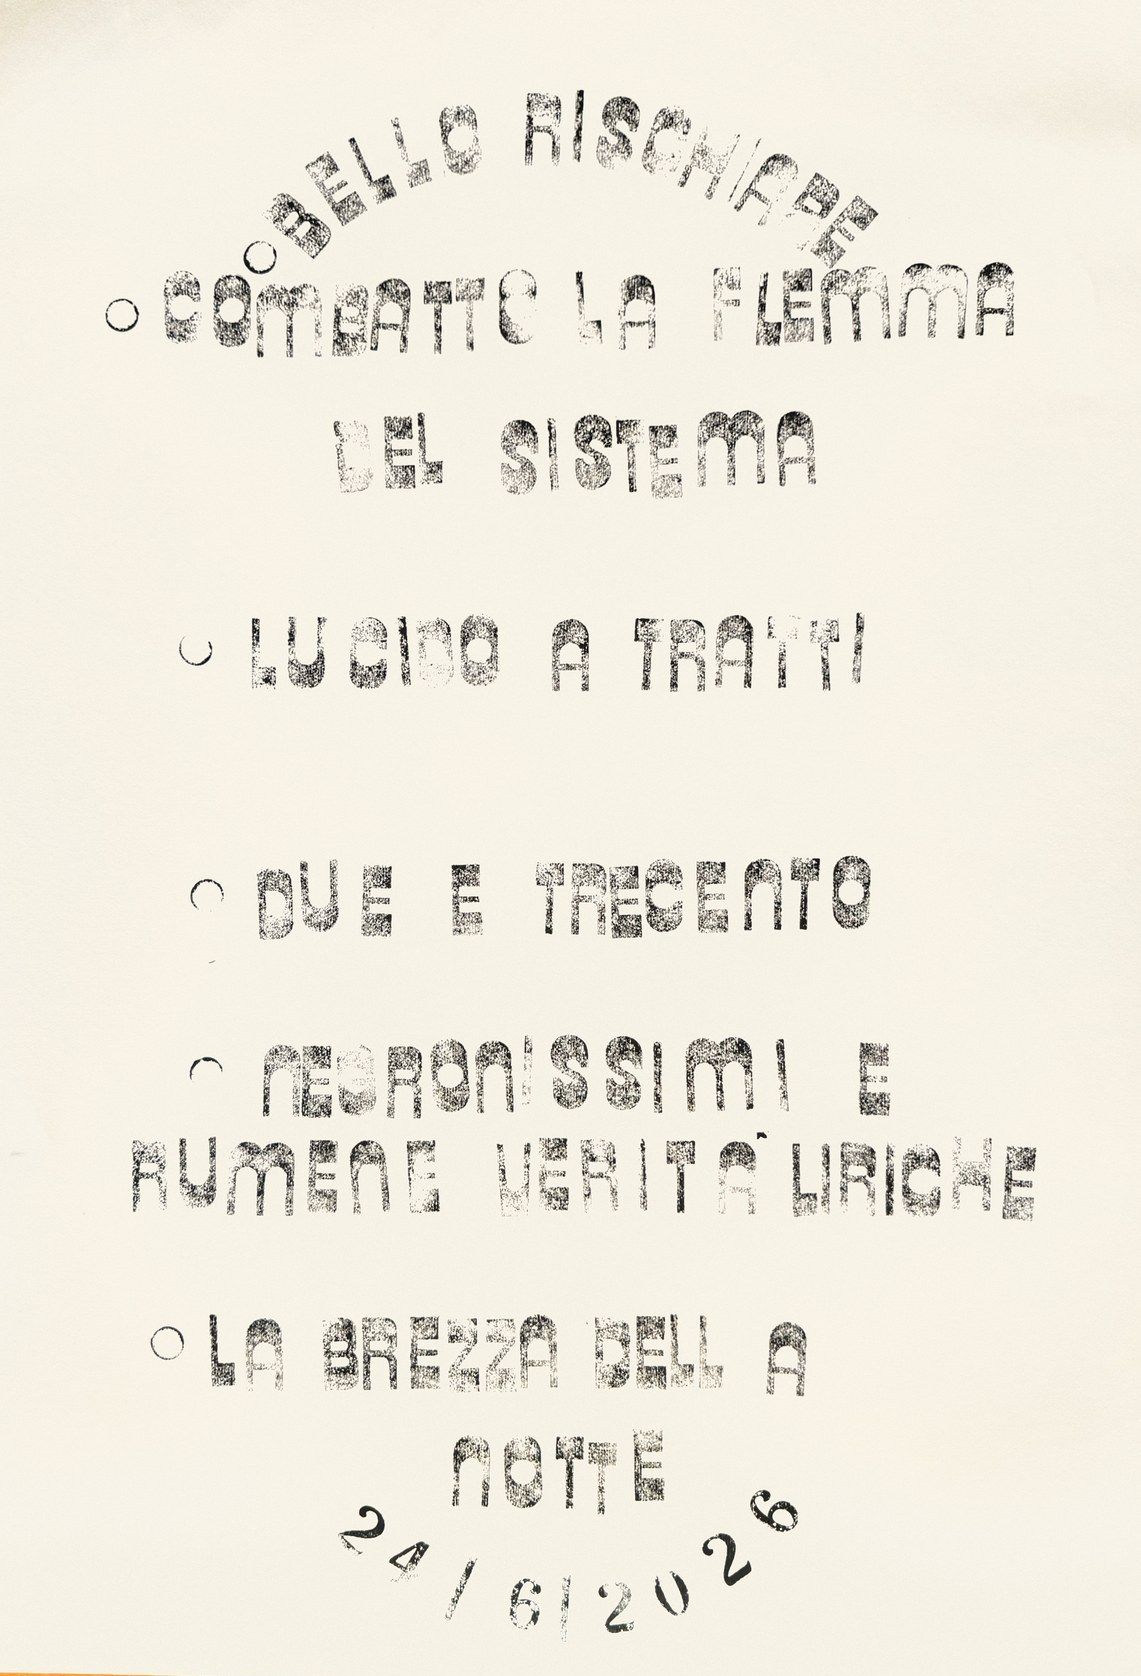
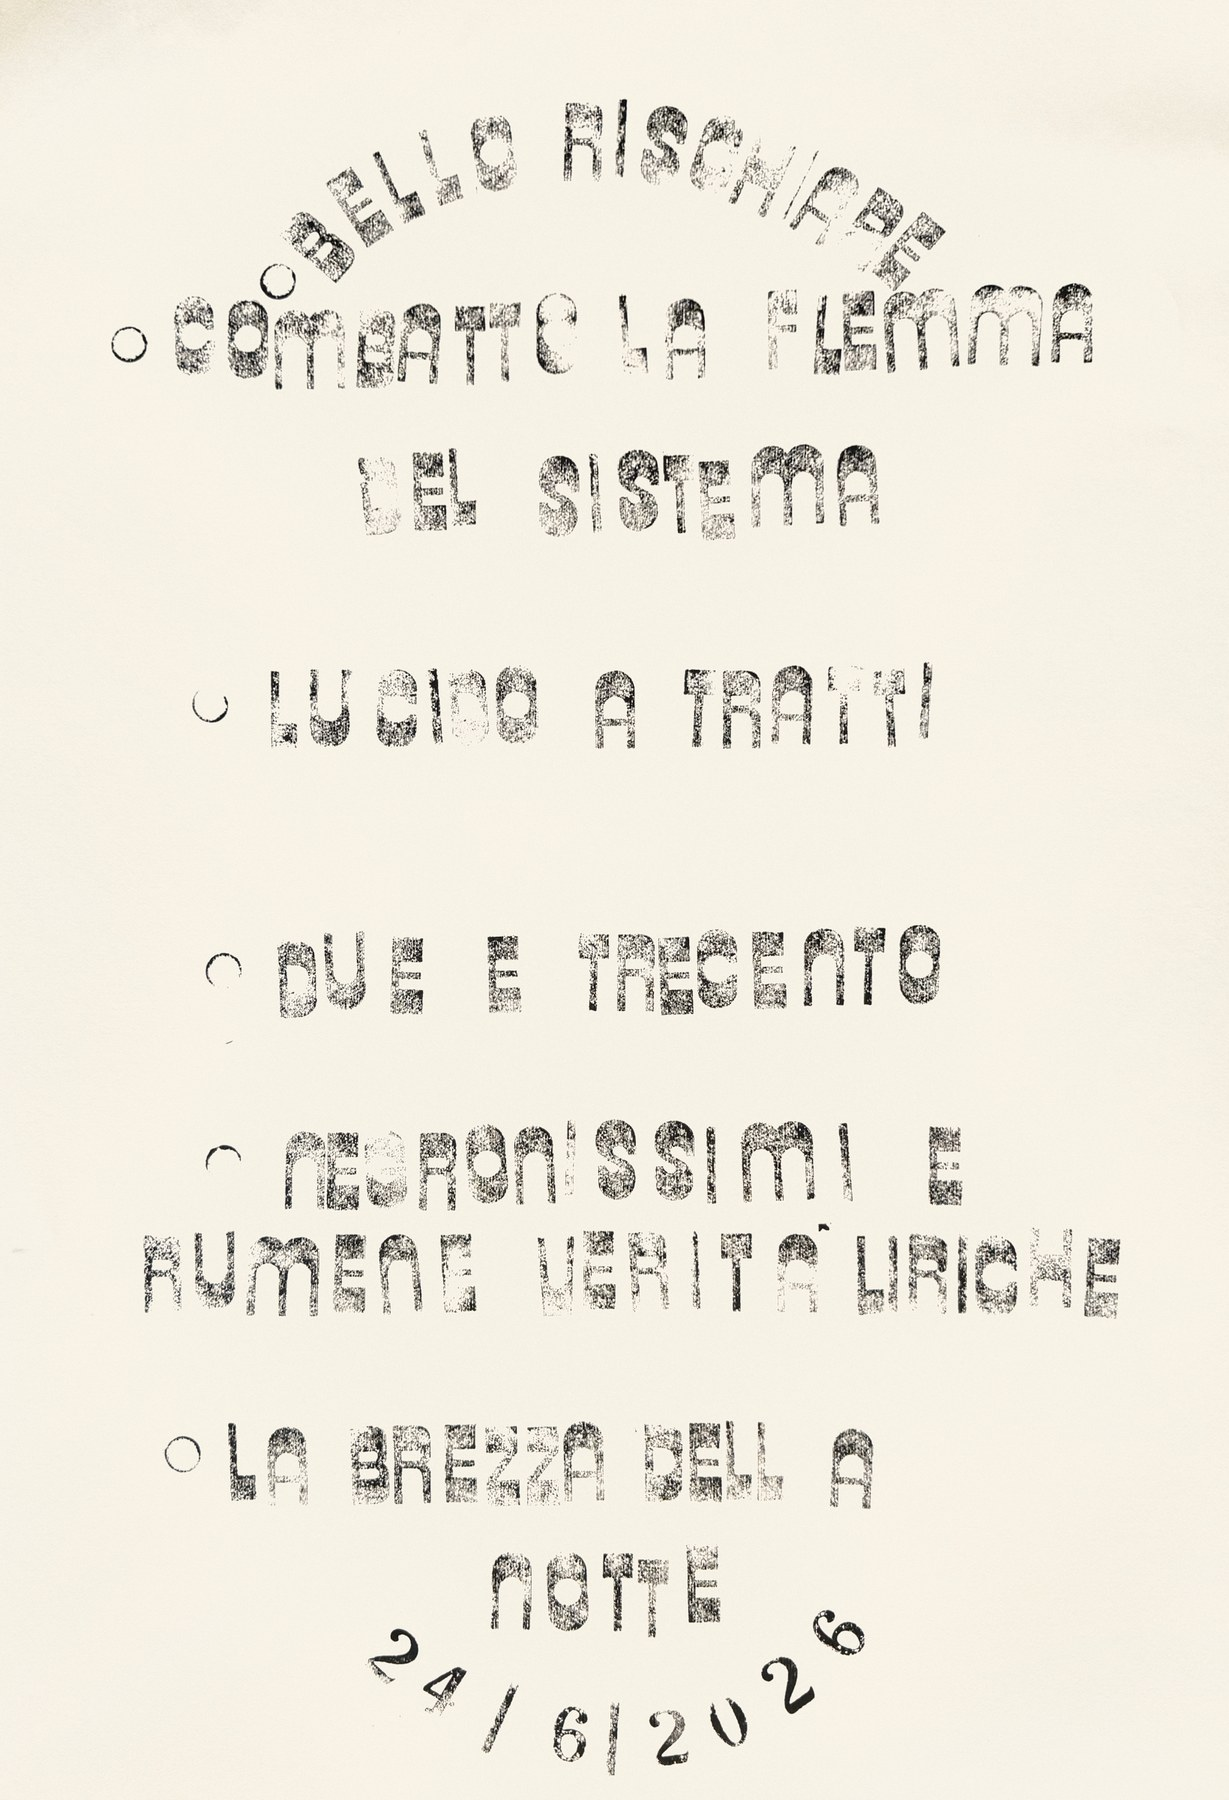
fix: 24/6 rimuovere tappeto arancione bottom (mask via saturazione)

diff --git a/index.html b/index.html
@@ -662,11 +662,11 @@ section#timbri{ padding-top: clamp(160px, 18vw, 240px); }
 <section class="page" id="timbri">
   <div class="gallery" id="gallery">
     <figure class="work">
-      <div class="work-frame" style="--ratio: 146.89%;">
+      <div class="work-frame" style="--ratio: 146.46%;">
         <img src="foto_definitive/Timbro_2026-06-24.jpg"
              srcset="foto_definitive/thumbs/Timbro_2026-06-24.jpg 800w, foto_definitive/Timbro_2026-06-24.jpg 1800w"
              sizes="(max-width: 720px) 92vw, 720px"
-             width="1141" height="1676"
+             width="1229" height="1800"
              alt="24/6/26" loading="lazy" decoding="async" />
       </div>
       <figcaption class="work-caption"><span class="work-date">24/6/26</span></figcaption>
